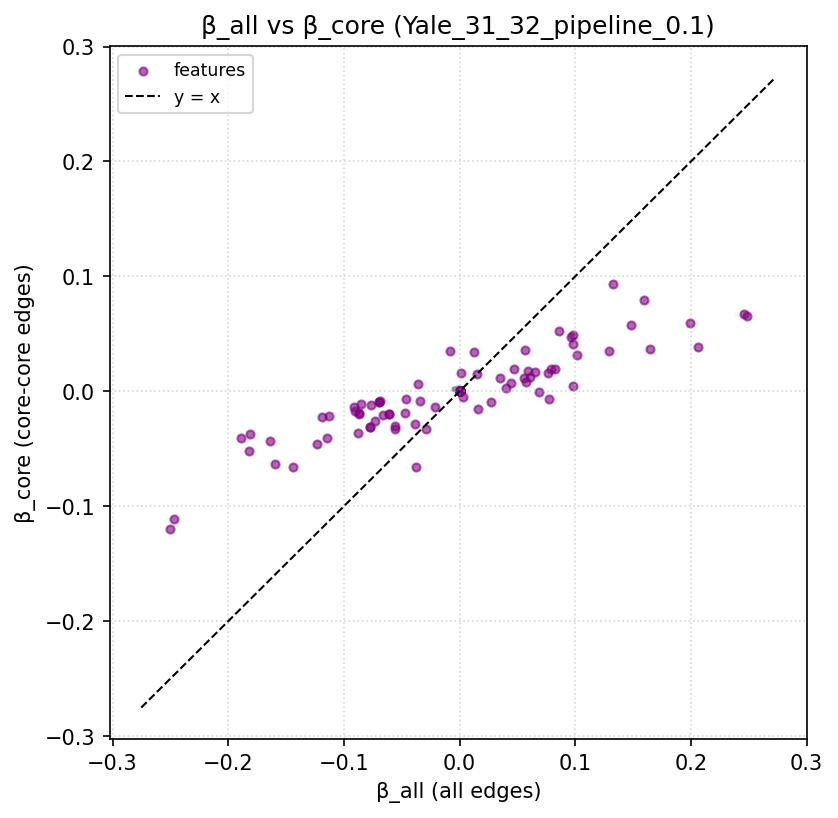
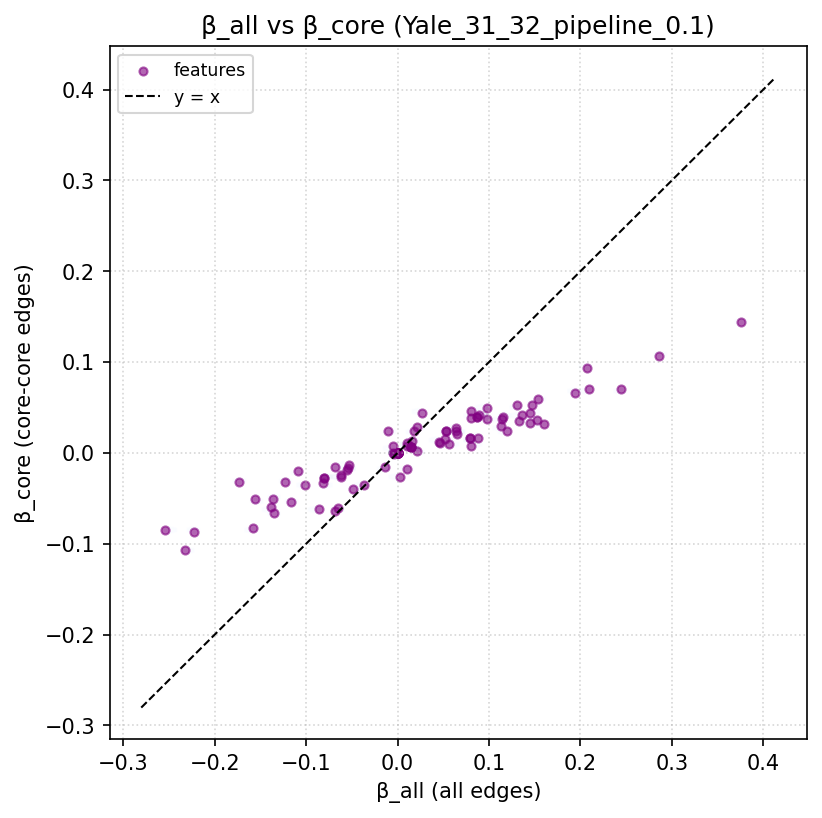
new figures

diff --git a/code/data_preprocessing.py b/code/data_preprocessing.py
@@ -11,6 +11,7 @@ from scipy.special import comb
 import matplotlib.pyplot as plt
 from sklearn.linear_model import LogisticRegression
 from sklearn.metrics import accuracy_score, classification_report, roc_auc_score
+from methods import *
 import random
 import math
 
@@ -445,10 +446,61 @@ def link_logistic_regression(adj_file, core_file, fringe_file, metadata_file, co
     return beta
 
 
+def finetuneLR():
+    from methods import link_logistic_regression_pipeline
+    file_ext = '.mat'
+    best_auc = -1
+    best_C = None
+    best_solver = None
+    best_beta = None
+    best_acc = None
+    best_model_type = None  # core_only or not
 
+    # Try a range of C values (regularization strengths) and solvers
+    C_values = [0.001, 0.01, 0.1, 1, 10, 100]
+    solvers = ['liblinear', 'lbfgs', 'saga', 'newton-cg', 'sag']
+    for f in listdir(fb_code_path):
+        if f.endswith(file_ext):
+            print(f)
+            adj_matrix, metadata = parse_fb100_mat_file(path_join(fb_code_path, f))
+            chosen_dorms_list = [np.uint(31), np.uint(32)]
+            adj_matrix, core_indices, fringe_indices = create_multi_dorm_core_fringe_graph(adj_matrix, metadata, chosen_dorms_list)
+            for core_only in [True, False]:
+                for solver in solvers:
+                    for C in C_values:
+                        lr_kwargs = {'C': C, 'solver': solver, 'max_iter': 1000}
+                        try:
+                            beta, acc, auc = link_logistic_regression_pipeline(
+                                adj_matrix, core_indices, fringe_indices, metadata,
+                                core_only=core_only, lr_kwargs=lr_kwargs
+                            )
+                            print(f"core_only={core_only}, solver={solver}, C={C}, acc={acc:.4f}, auc={auc:.4f}")
+                            if auc > best_auc:
+                                best_auc = auc
+                                best_C = C
+                                best_solver = solver
+                                best_beta = beta
+                                best_acc = acc
+                                best_model_type = core_only
+                        except Exception as e:
+                            print(f"Skipped solver={solver}, C={C} due to error: {e}")
+
+    print(f"Best AUC: {best_auc:.4f} with solver={best_solver}, C={best_C}, core_only={best_model_type}, acc={best_acc:.4f}")
+    # Optionally, return or save best_beta, best_C, best_solver, etc.
 
 def pipeline():
     file_ext = '.mat'
+    auc_scores = {
+        'cc' : [],
+        'cf' : [],
+        'cfed' : []
+    }
+    acc_scores = {
+        'cc' : [],
+        'cf' : [],
+        'cfed' : []
+    }
+
     for f in listdir(fb_code_path):
         if f.endswith(file_ext):
             print(f)
@@ -456,68 +508,105 @@ def pipeline():
             chosen_dorms_list = [[np.uint(31), np.uint(32)]]
             adj_matrix, core_indices, fringe_indices = create_multi_dorm_core_fringe_graph(adj_matrix, metadata, chosen_dorms_list)
             percentages = [0.1, 0.2, 0.3, 0.4, 0.5, 0.6, 0.7, 0.8, 0.9, 1.0]
+            lr_kwargs = {'C': 0.01, 'solver': 'newton-cg', 'max_iter': 1000}
             for p in percentages:
                 labelled_core_indices = np.random.choice(core_indices, size=int(p * len(core_indices)), replace=False)
-                beta_core_only_p = link_logistic_regression_pipeline(adj_matrix, labelled_core_indices, fringe_indices, metadata, core_only=True)
-                beta_core_fringe_p = link_logistic_regression_pipeline(adj_matrix, labelled_core_indices, fringe_indices, metadata, core_only=False)
-                print("Correlation:", np.corrcoef(beta_core_only_p, beta_core_fringe_p[labelled_core_indices])[0, 1])
-                plot_beta_comparison(beta_core_only_p, beta_core_fringe_p[labelled_core_indices], f"Yale_31_32_pipeline_{p}")
-
+                beta_core_only_p, acc_cc, auc_cc = link_logistic_regression_pipeline(adj_matrix, labelled_core_indices, fringe_indices, metadata, core_only=True, lr_kwargs=lr_kwargs)
+                beta_core_fringe_p, acc_cf, auc_cf = link_logistic_regression_pipeline(adj_matrix, labelled_core_indices, fringe_indices, metadata, core_only=False, lr_kwargs=lr_kwargs)    
+                beta_cfed, acc_cfed, auc_cfed = link_logistic_regression_pipeline(adj_matrix, labelled_core_indices, fringe_indices, metadata, core_only=False, lr_kwargs=lr_kwargs, expected_degree=True)
+                # print("Correlation:", np.corrcoef(beta_core_only_p, beta_core_fringe_p[labelled_core_indices])[0, 1])
+                padded_beta_core_only = np.full_like(beta_core_fringe_p, np.nan)
+                padded_beta_core_only[labelled_core_indices] = beta_core_only_p
+                plot_beta_comparison(beta_core_fringe_p, padded_beta_core_only, f"Yale_31_32_pipeline_padded_{p}")
+                auc_scores['cc'].append(auc_cc)
+                auc_scores['cf'].append(auc_cf)
+                auc_scores['cfed'].append(auc_cfed)
+                acc_scores['cc'].append(acc_cc)
+                acc_scores['cf'].append(acc_cf)
+                acc_scores['cfed'].append(acc_cfed)
             # beta_core_only = link_logistic_regression_pipeline(adj_matrix, core_indices, fringe_indices, metadata, core_only=True)
             # beta_core_fringe = link_logistic_regression_pipeline(adj_matrix, core_indices, fringe_indices, metadata, core_only=False)
             # print("Correlation:", np.corrcoef(beta_core_only, beta_core_fringe[core_indices])[0, 1])
             # plot_beta_comparison(beta_core_only, beta_core_fringe[core_indices], "Yale_31_32_pipeline")
+    plot_auc(auc_scores, acc_scores, percentages, "Yale_31_32")
 
-def link_logistic_regression_pipeline(adj_matrix, core_indices, fringe_indices, metadata, core_only=False):
-    # Get gender and dorm information
-    gender = metadata[:, 1]
-    dorm = metadata[:, 4]
+def plot_auc(auc_scores, acc_scores, percentages, tag):
+    plt.figure(figsize=(10, 5))
+    plt.plot(percentages, auc_scores['cc'], label='Core-Core', marker='o')
+    plt.plot(percentages, auc_scores['cf'], label='Core-Fringe', marker='o')
+    plt.plot(percentages, auc_scores['cfed'], label='Core-Fringe (Expected Degree)', marker='o')
+    plt.xlabel('Percentage of Core Nodes Used for Training')
+    plt.xticks(percentages)
+    plt.ylabel('AUC')
+    plt.title(f'AUC Comparison for {tag}')
+    plt.legend()
+    plt.savefig(f"../figures/{tag}_auc_comparison.png")
+    plt.cla()
+    plt.clf()
 
-    # Create core-only adjacency matrix
-    if core_only:
-        X_train = adj_matrix[core_indices, :][:, core_indices]
-        y_train = gender[core_indices]
-        X_test = adj_matrix[fringe_indices, :][:, core_indices]
-        print("\n Feature Space (Core-Core only)")
-        print(f"X_train shape: {X_train.shape}")
-        print(f"y_train shape: {y_train.shape}")
-        # print(f"Number of non-zero elements in X_train: {X_train.nnz}")
-    else:
-        X_train = adj_matrix[core_indices, :]
-        y_train = gender[core_indices]
-        X_test = adj_matrix[fringe_indices, :]
-        print("\n Feature Space (Core-Fringe)")
-        print(f"X_train shape: {X_train.shape}")
-        print(f"y_train shape: {y_train.shape}")
-        # print(f"Number of non-zero elements in X_train: {X_train.nnz}")
+    plt.figure(figsize=(10, 5))
+    plt.plot(percentages, acc_scores['cc'], label='Core-Core', marker='o')
+    plt.plot(percentages, acc_scores['cf'], label='Core-Fringe', marker='o')
+    plt.plot(percentages, acc_scores['cfed'], label='Core-Fringe (Expected Degree)', marker='o')
+    plt.xlabel('Percentage of Core Nodes Used for Training')
+    plt.xticks(percentages)
+    plt.ylabel('Accuracy')
+    plt.title(f'Accuracy Comparison for {tag}')
+    plt.legend()
+    plt.savefig(f"../figures/{tag}_acc_comparison.png")
+    plt.close()
+
+
+# def link_logistic_regression_pipeline(adj_matrix, core_indices, fringe_indices, metadata, core_only=False):
+#     # Get gender and dorm information
+#     gender = metadata[:, 1]
+#     dorm = metadata[:, 4]
+
+#     # Create core-only adjacency matrix
+#     if core_only:
+#         X_train = adj_matrix[core_indices, :][:, core_indices]
+#         y_train = gender[core_indices]
+#         X_test = adj_matrix[fringe_indices, :][:, core_indices]
+#         print("\n Feature Space (Core-Core only)")
+#         print(f"X_train shape: {X_train.shape}")
+#         print(f"y_train shape: {y_train.shape}")
+#         # print(f"Number of non-zero elements in X_train: {X_train.nnz}")
+#     else:
+#         X_train = adj_matrix[core_indices, :]
+#         y_train = gender[core_indices]
+#         X_test = adj_matrix[fringe_indices, :]
+#         print("\n Feature Space (Core-Fringe)")
+#         print(f"X_train shape: {X_train.shape}")
+#         print(f"y_train shape: {y_train.shape}")
+#         # print(f"Number of non-zero elements in X_train: {X_train.nnz}")
     
-    # X_test = adj_matrix[fringe_indices, :][:, core_indices]
-    y_test = gender[fringe_indices]
-    seed = 42
-    unique_train_classes = np.unique(y_train)
-    print(f"Unique training classes: {unique_train_classes}")
-    if unique_train_classes.size < 2:
-        print("Not enough unique classes for training. Skipping logistic regression.")
-        return
+#     # X_test = adj_matrix[fringe_indices, :][:, core_indices]
+#     y_test = gender[fringe_indices]
+#     seed = 42
+#     unique_train_classes = np.unique(y_train)
+#     print(f"Unique training classes: {unique_train_classes}")
+#     if unique_train_classes.size < 2:
+#         print("Not enough unique classes for training. Skipping logistic regression.")
+#         return
     
-    # Train logistic regression model
-    lr_kwargs = {'C': 0.1, 'solver': 'liblinear', 'max_iter': 1000}
-    model = LogisticRegression(**lr_kwargs, random_state=seed)
-    model.fit(X_train, y_train)
-    beta = model.coef_.flatten()
-    print(f"Number of non-zero coefficients: {np.count_nonzero(beta)}")
-    print(f"Mean absolute coefficient: {np.mean(np.abs(beta)):.4f}")
-    print(f"Max coefficient: {np.max(np.abs(beta)):.4f}")
-    print(f"Min coefficient: {np.min(np.abs(beta)):.4f}")
-    print(f"Max coefficient (No-Abs): {np.max(beta):.4f}")
-    print(f"Min coefficient (No-Abs): {np.min(beta):.4f}")
+#     # Train logistic regression model
+#     lr_kwargs = {'C': 0.1, 'solver': 'liblinear', 'max_iter': 1000}
+#     model = LogisticRegression(**lr_kwargs, random_state=seed)
+#     model.fit(X_train, y_train)
+#     beta = model.coef_.flatten()
+#     print(f"Number of non-zero coefficients: {np.count_nonzero(beta)}")
+#     print(f"Mean absolute coefficient: {np.mean(np.abs(beta)):.4f}")
+#     print(f"Max coefficient: {np.max(np.abs(beta)):.4f}")
+#     print(f"Min coefficient: {np.min(np.abs(beta)):.4f}")
+#     print(f"Max coefficient (No-Abs): {np.max(beta):.4f}")
+#     print(f"Min coefficient (No-Abs): {np.min(beta):.4f}")
     
-    # Make predictions on test set
-    y_test_pred = model.predict(X_test)
-    y_test_scores = model.predict_proba(X_test)
-    print(f"Test Accuracy: {accuracy_score(y_test, y_test_pred):.4f}")
-    print(f"Test ROC AUC: {roc_auc_score(y_test, y_test_scores[:, 1]):.4f}")
-    return beta
+#     # Make predictions on test set
+#     y_test_pred = model.predict(X_test)
+#     y_test_scores = model.predict_proba(X_test)
+#     print(f"Test Accuracy: {accuracy_score(y_test, y_test_pred):.4f}")
+#     print(f"Test ROC AUC: {roc_auc_score(y_test, y_test_scores[:, 1]):.4f}")
+#     return beta
 
 def plot_beta_comparison(beta_all, beta_core, tag):
     """

diff --git a/code/methods.py b/code/methods.py
@@ -1,0 +1,91 @@
+import numpy as np
+from sklearn.linear_model import LogisticRegression
+from sklearn.metrics import accuracy_score, roc_auc_score
+
+
+def estimate_expected_degree_from_core(adj_matrix, core_indices, fringe_indices):
+    """
+    For each fringe node, compute its expected fringe–fringe degree
+    as the *average* degree of the core nodes it connects to.
+    If a fringe node has no core neighbors, fall back to the global
+    average core degree.
+    """
+    core_deg = np.array(adj_matrix[core_indices, :].sum(axis=1)).flatten()
+    global_avg = core_deg.mean()
+
+    expected = np.zeros(len(fringe_indices), dtype=float)
+
+    for i, f in enumerate(fringe_indices):
+        connections = adj_matrix[core_indices, f].toarray().flatten()
+        neighbor_positions = np.nonzero(connections)[0]
+        if neighbor_positions.size > 0:
+            expected[i] = core_deg[neighbor_positions].mean()
+        else:
+            expected[i] = global_avg
+
+    return expected
+
+
+def link_logistic_regression_pipeline(adj_matrix, core_indices, fringe_indices, metadata, core_only=False, lr_kwargs=None, expected_degree=False):
+    # Get gender and dorm information
+    gender = metadata[:, 1]
+    dorm = metadata[:, 4]
+
+    # Create core-only adjacency matrix
+    if core_only:
+        X_train = adj_matrix[core_indices, :][:, core_indices]
+        y_train = gender[core_indices]
+        X_test = adj_matrix[fringe_indices, :][:, core_indices]
+        print("\n Feature Space (Core-Core only)")
+        print(f"X_train shape: {X_train.shape}")
+        print(f"y_train shape: {y_train.shape}")
+        # print(f"Number of non-zero elements in X_train: {X_train.nnz}")
+    else:
+        X_train = adj_matrix[core_indices, :]
+        y_train = gender[core_indices]
+        X_test = adj_matrix[fringe_indices, :]
+        print("\n Feature Space (Core-Fringe)")
+        print(f"X_train shape: {X_train.shape}")
+        print(f"y_train shape: {y_train.shape}")
+        # print(f"Number of non-zero elements in X_train: {X_train.nnz}")
+    
+    # X_test = adj_matrix[fringe_indices, :][:, core_indices]
+    y_test = gender[fringe_indices]
+    seed = 42
+    unique_train_classes = np.unique(y_train)
+    print(f"Unique training classes: {unique_train_classes}")
+    if unique_train_classes.size < 2:
+        print("Not enough unique classes for training. Skipping logistic regression.")
+        return
+    
+    # Train logistic regression model
+    model = LogisticRegression(**lr_kwargs, random_state=seed)
+    model.fit(X_train, y_train)
+    beta = model.coef_.flatten()
+    print(f"Number of non-zero coefficients: {np.count_nonzero(beta)}")
+    print(f"Mean absolute coefficient: {np.mean(np.abs(beta)):.4f}")
+    print(f"Max coefficient: {np.max(np.abs(beta)):.4f}")
+    print(f"Min coefficient: {np.min(np.abs(beta)):.4f}")
+    print(f"Max coefficient (No-Abs): {np.max(beta):.4f}")
+    print(f"Min coefficient (No-Abs): {np.min(beta):.4f}")
+    
+    # Make predictions on test set
+    if expected_degree:
+        expected_degree = estimate_expected_degree_from_core(adj_matrix, core_indices, fringe_indices)
+        # first_fringe_col = fringe_indices[0]
+        # X_test[np.arange(len(fringe_indices)), first_fringe_col] = expected_degree
+        for i, deg in enumerate(expected_degree):
+            # For each fringe node (row i)
+            k = int(round(deg))
+            if k > 0:
+                # Randomly select k columns from the fringe_indices (fringe-fringe block)
+                chosen_cols = np.random.choice(fringe_indices, size=min(k, len(fringe_indices)), replace=False)
+                X_test[i, chosen_cols] = 1
+    
+    y_test_pred = model.predict(X_test)
+    y_test_scores = model.predict_proba(X_test)
+    accuracy = accuracy_score(y_test, y_test_pred)
+    auc = roc_auc_score(y_test, y_test_scores[:, 1])
+    print(f"Test Accuracy: {accuracy:.4f}")
+    print(f"Test ROC AUC: {auc:.4f}")
+    return beta, accuracy, auc
